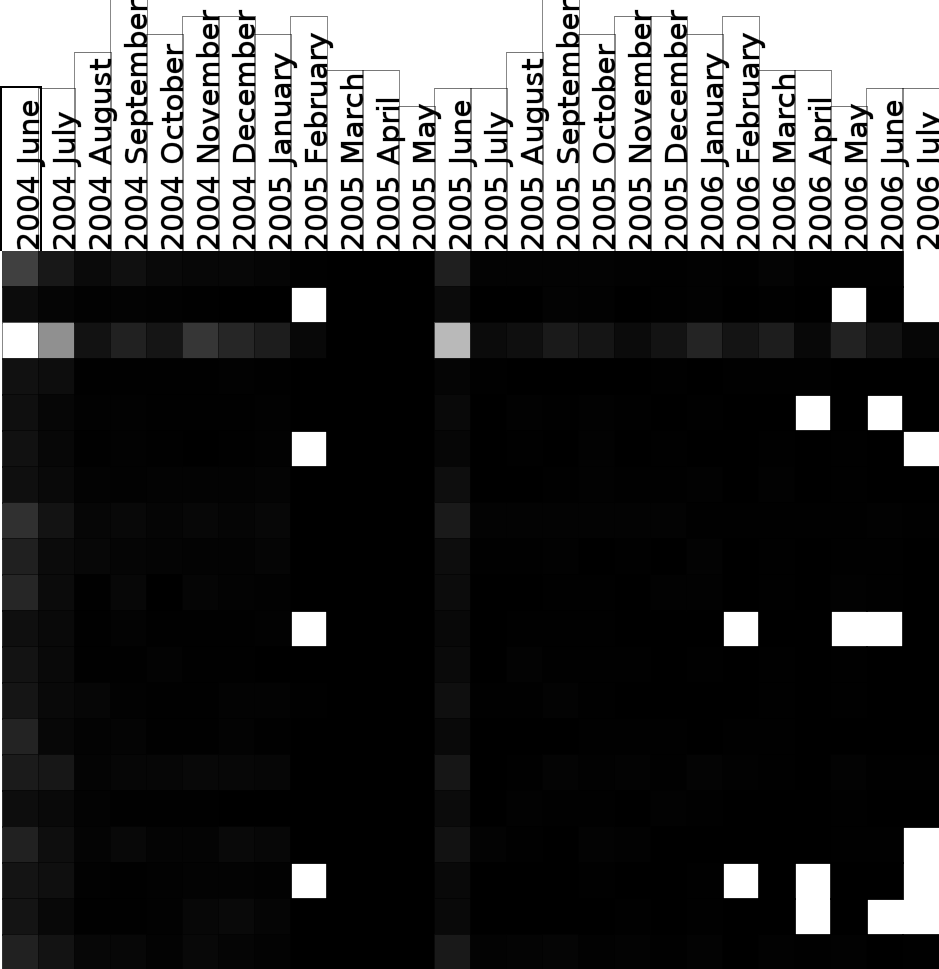
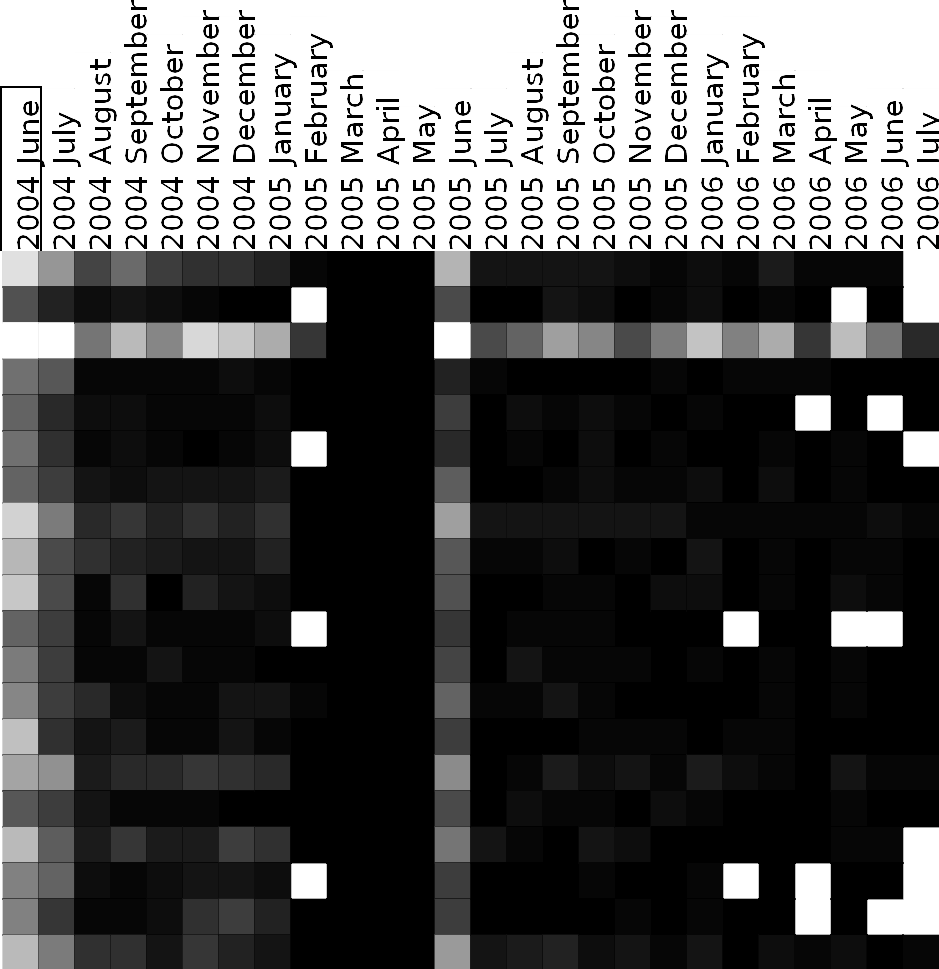
minor touchups and     - [X] Fix the Last Diagram - more contrast?

diff --git a/lda-paper.tex b/lda-paper.tex
@@ -15,10 +15,17 @@
 \definecolor{changecolor2}{rgb}{0.3,0.08,0.45} 
 \definecolor{changecolor3}{rgb}{0.3,0.45,0.45} 
 \definecolor{changecolor4}{rgb}{0.0,0.3,0.0} 
-\newcommand{\hl}[1]{{\color{changecolor1} #1 }}
-\newcommand{\hla}[1]{{\color{changecolor2} #1 }}
-\newcommand{\hlb}[1]{{\color{changecolor3} #1 }}
-\newcommand{\hlc}[1]{{\color{changecolor4} #1 }}
+% \newcommand{\hl}[1]{{\color{changecolor1} #1 }}
+% \newcommand{\hla}[1]{{\color{changecolor2} #1 }}
+% \newcommand{\hlb}[1]{{\color{changecolor3} #1 }}
+% \newcommand{\hlc}[1]{{\color{changecolor4} #1 }}
+
+
+\newcommand{\hl}[1]{#1}
+\newcommand{\hla}[1]{#1}
+\newcommand{\hlb}[1]{#1}
+\newcommand{\hlc}[1]{#1}
+
 
 
 
@@ -46,7 +53,7 @@ University of Waterloo\\
 %\numberofauthors{5}
 \author{
 %\alignauthor
-Abram Hindle and Michael W. Godfrey and Richard C. Holt\\
+Abram Hindle, Michael W. Godfrey and Richard C. Holt\\
 %\affaddr{David Cheriton School of Computer Science}\\
 \affaddr{University of Waterloo}\\
 \affaddr{Waterloo, Ontario}\\
@@ -120,9 +127,7 @@ Abram Hindle and Michael W. Godfrey and Richard C. Holt\\
 \hla{ The questions that we wish to address deal with the past and
   topics development that occurred in the past.  What happened in
   the previous iteration of a project's development?  What were the
-  developers working on? What was the developer in the next cubicle
-  working on? Which common topics and issues were dealt with in the
-  current release of the software? What were the topics of the
+  developers working on? What were the topics of the
   previous release? Given the requirements agreed to at the start of
   the iteration did our developers work on them?  What else did they
   work on?  }
@@ -982,7 +987,7 @@ necessarily globally relevant.
 The query optimizer was a topic that recurred during MaxDB's
 development. In our plots, topics that mention \emph{optimizer} occur
 four times, yet in the global-trend-view (Figure
-\ref{fig:statictopics}, explained in Section \ref{ref:compare}) it is not in any of the topics. A query
+\ref{fig:statictopics}, explained in Section \ref{sec:compare}) it is not in any of the topics. A query
 optimizer is an important component of an DBMS, but as we have shown
 it does not appear as a topic on its own. We tried to remove words to
 see if we could get an \emph{optimizer} topic. After removing stop
